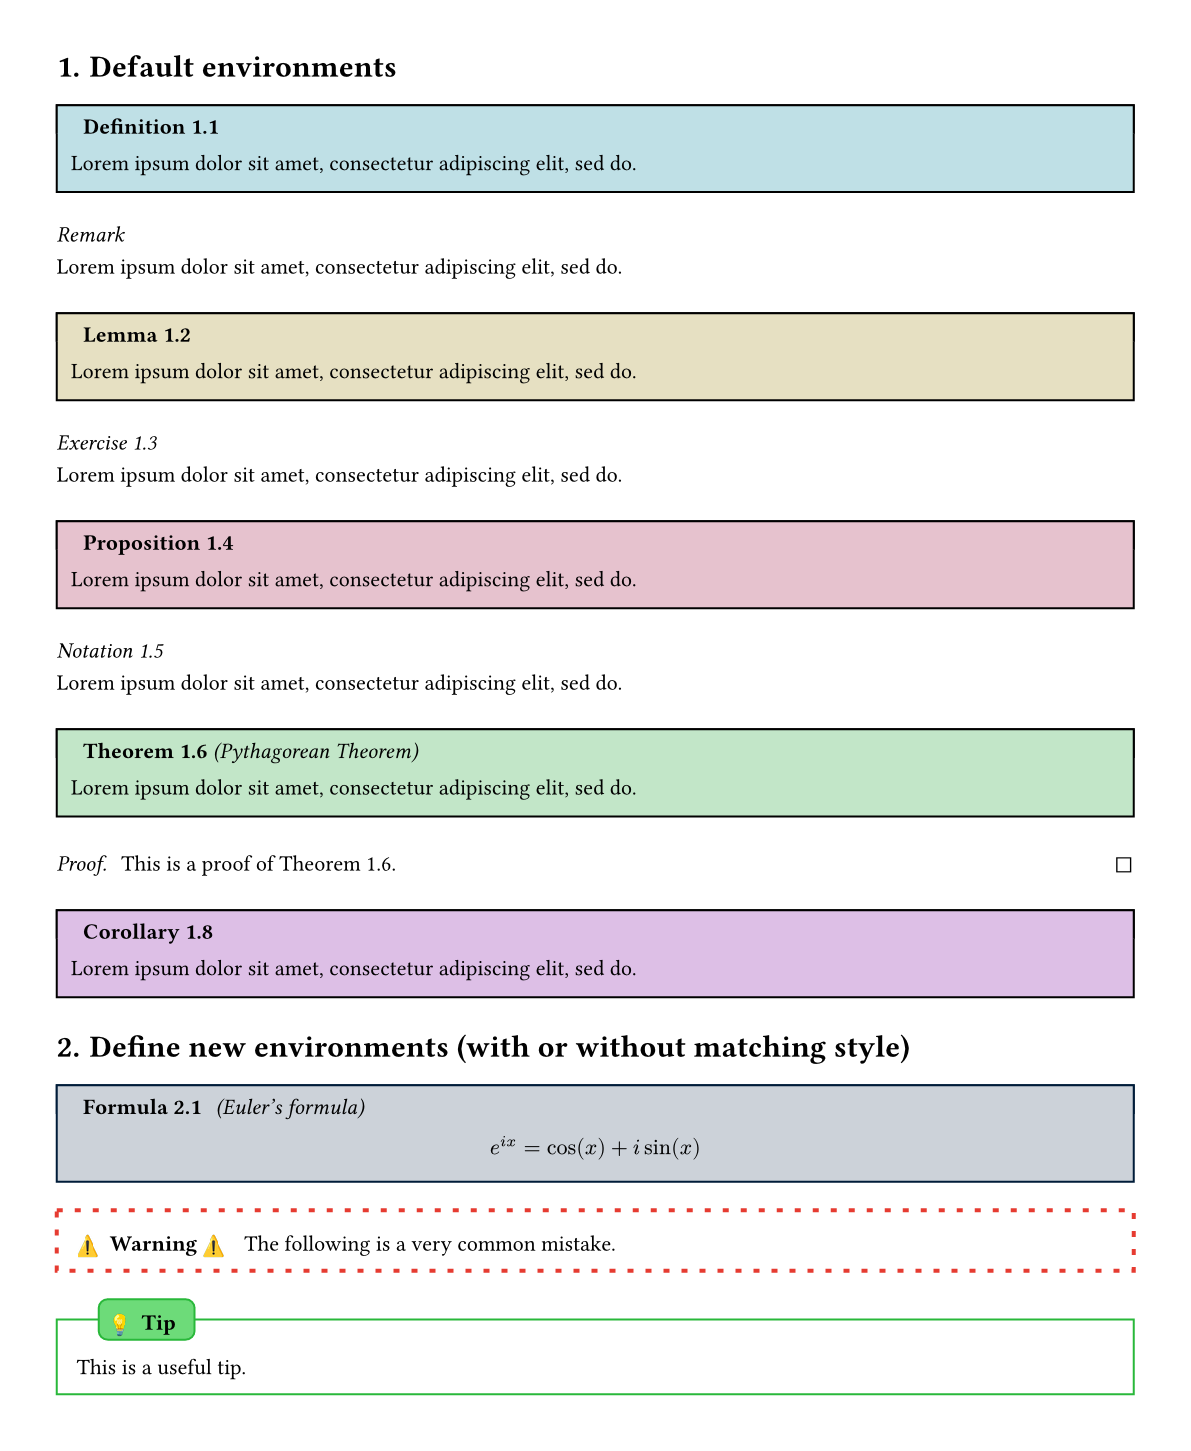
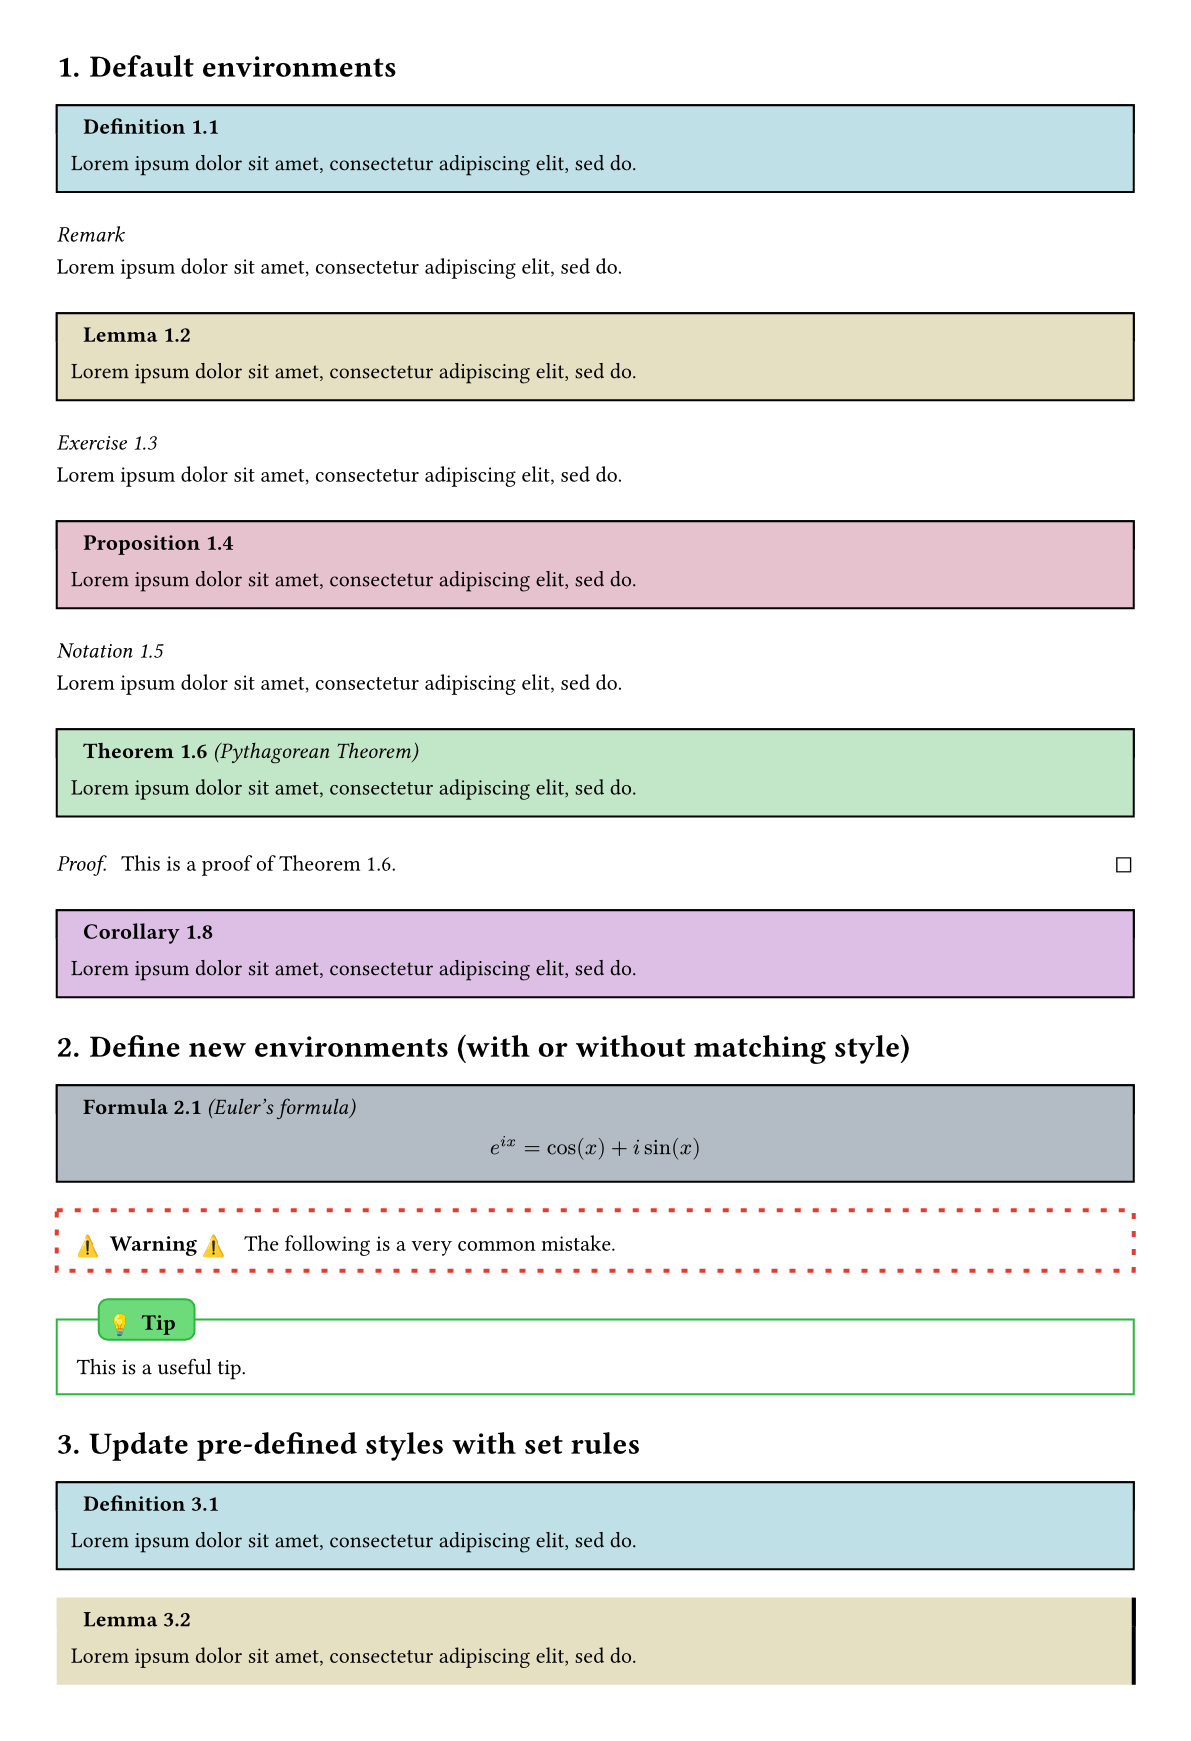
[update] README and examples

diff --git a/README.md b/README.md
@@ -37,8 +37,11 @@ Simply download the package locally (as described on the [Typst Packages](https:
 #set page(height: auto, margin: 1cm)
 #set heading(numbering: "1.")
 
-// apply the imported style, with theorem counter based on level-1 headings
-#show: show-theorem.with(counter-level: 1)  
+// apply imported style, with theorem counter based on level-1 headings and adding new color for custom "Formula" kind.
+#show: show-theorem.with(
+  counter-level: 1, 
+  colors: default-palette + (Formula: navy)
+)  
 
 
 = Default environments
@@ -62,32 +65,69 @@ Simply download the package locally (as described on the [Typst Packages](https:
 
 = Define new environments (with or without matching style)
 
-// define a formula box with matching styling (title styling has to be re-defined explicitely)
+// define a formula box with matching styling (note: a color must by added to the color dictionary when applying the show rule,otherwis the matching style is not applied)
 #let formula = styled-box.with(
-  title: (kind, counter, name) => [*Formula #(counter.display)()* #h(.4em) _(#name)_],
-  frame: (
-    body-color: navy.lighten(80%),
-    border-color: navy.darken(10%),
-    title-color: navy.lighten(80%),
-  ),
+  kind: "Formula",
 )
 
 // define a warning box with own styling
-#let warning = styled-box.with(
-  title: (kind, counter, name) => [*#emoji.warning Warning*],
+#let warning = generic-box.with(
+  title: (kind, counter, name) => [*#emoji.warning Warning #emoji.warning * #h(.4em)],
   frame: (
     border-color: red.darken(10%),
     title-color: white,
     body-color: white,
     dash: "loosely-dashed",
     thickness: 2pt,
+    body-inset: 10pt,
   ),
-  counter: none
+  title-style: (
+    inline: true,
+  ),
+  counter: none,
+)
+
+// define a tip box with own styling
+#let tip = generic-box.with(
+  title: (kind, counter, name) => [*#emoji.lightbulb Tip* #h(.4em)],
+  frame: (
+    border-color: green.darken(10%),
+    title-color: green.lighten(30%),
+    body-color: white,
+    thickness: 1pt,
+    body-inset: 10pt,
+    title-inset: 5pt,
+  ),
+  title-style: (
+    boxed-style: (offset: (x: 10pt)),
+  ),
+  counter: none,
 )
 
 #formula(name: [Euler's formula])[$ e^(i x) = cos(x) + i sin(x) $]
 
 #warning[The following is a very common mistake.]
+
+#tip[This is a useful tip.] 
+
+= Update pre-defined styles with set rules
+
+// change definition box appearance
+#show: set-box-frame(
+  definition,
+  thickness: 1pt,
+)
+
+#definition[ #lorem(10) ]
+
+// change bar side of all pre-defined environments (with "generic-box")
+#show: set-box-frame(
+  generic-box,
+  thickness: (left: none, right: 2pt),
+)
+
+#lemma[ #lorem(10) ]
+
 ```
 
 ![image](./theorem/examples/simple-test.png)
